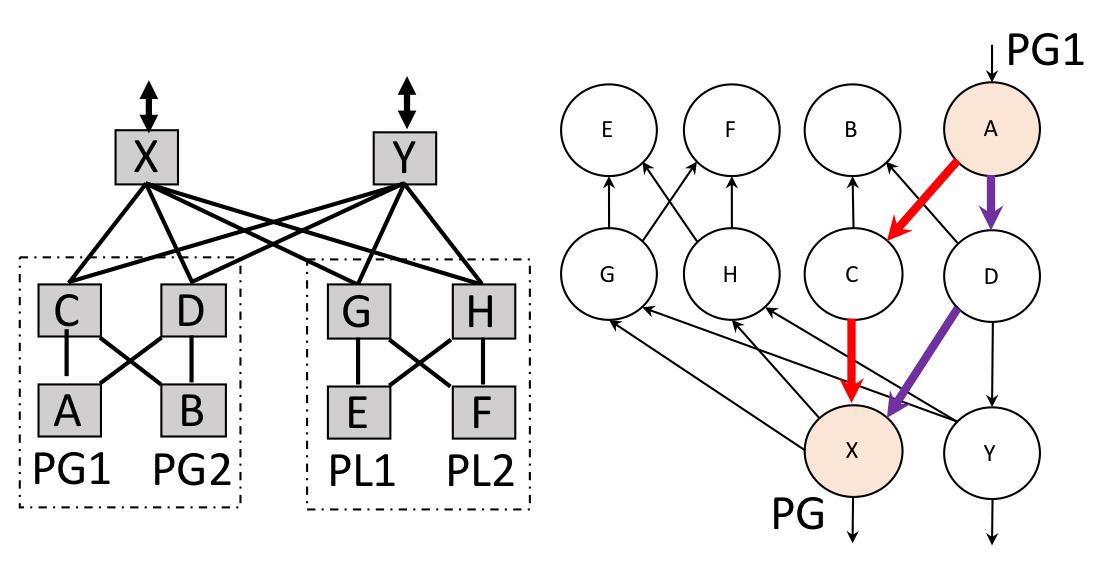
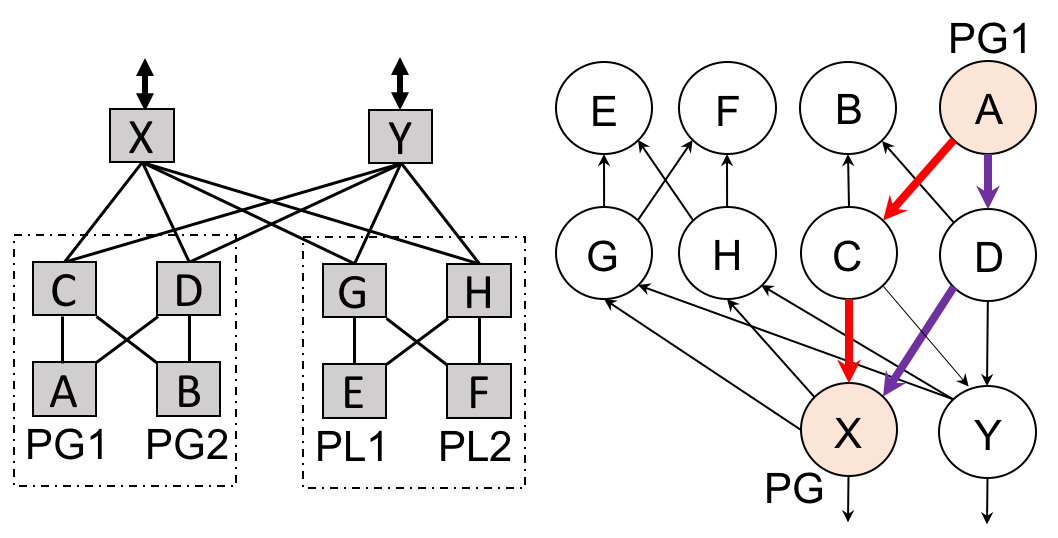
make figure text size consistent

diff --git a/paper/v2/paper-edited.tex b/paper/v2/paper-edited.tex
@@ -1245,7 +1245,8 @@ The PGIR is constructed by adding an edge from $m = (l_m, a_1, \dots, a_k)$ to $
 %
 Additionally, we add edges from the start node $s$ to any $n = (l, a_1, \dots, a_k)$ when $\sigma_i(q_{0_i}, l) = a_i$ for each $i$.
 %
-The preference function $P$ for node $n = (l, a_1, \dots, a_k)$ is defined as $P(n) = \set{i~\vert~a_i \in F_i} $. That is, it records which preferences are achieved from each policy automaton for every node in the product construction.
+The preference function $P$ is defined as $P(n) = \set{i~\vert~a_i \in F_i} $. That is, it records the path rank of each regular expression matched in the current node.
+% in preferences are achieved from each policy automaton for every node in the product construction.
 %
 Finally, there is an edge from each node in the PGIR such that $P(n) \neq \emptyset$ to the special end node $e$. We write $(m \leq_{rank} n)$ if either $P(m) = P(n) = \emptyset$ or $min ~ P(m) \leq min ~ P(n)$, which means that paths ending at PGIR node $m$ are better (lower rank) than paths ending at $n$.
 
@@ -1271,7 +1272,7 @@ After building the PGIR as described above,
 we minimize it in order to improve the precision of the subsequent analysis that checks if the policies captured by it are safe under failures.
 The minimization is based on the observation that, although every path in the PGIR is a valid path in the topology, we do not want to consider paths that form loops. In particular, BGP's loop prevention mechanism forces an AS to reject any route that is already in the AS path.
 %
-For example, in Figure~\ref{fig:example-compilation}, the path $W \cdot A \cdot C \cdot B \cdot W$ is a valid topological path, leading to a path that satisfies the preference 1 policy, but which contains a loop.
+For example, in Figure~\ref{fig:example-compilation}, the path $W \cdot A \cdot C \cdot B \cdot W$ is a valid topological path, leading to a path that satisfies the preference 2 policy, but which contains a loop.
 %
 %The precision of the failure-safety analysis often increases when nodes and edges that are not possible due to loops are eliminated.
 %For example, if we can safely remove a PGIR edge, then we do not have to consider what happens when the edge has failed.
@@ -1397,8 +1398,8 @@ For each router in the topology, local preferences are now obtained by sorting t
 
 \begin{figure}[t!]
   \centering
-  \includegraphics[width=.6\columnwidth]{figures/loops}
-  \caption{A Product Graph where preference inference is unsound before considering loops.}
+  \includegraphics[width=.66\columnwidth]{figures/loops}
+  \caption{A Product Graph where preference inference is unsound before considering loops. Path ranks shown by nodes.}
   \label{fig:avoiding-loops}
   %\vspace{-1em}
 \end{figure}
@@ -1650,7 +1651,7 @@ Figure~\ref{fig:compilation-times} shows the compilation times for datacenter an
 
 %From the break down of the time by compilation phase, we see that no single compilation phase dominates the running time of the compiler. However, construction and minimization of the product graph take the most time.
 
-Total compilation for the largest datacenter is less than 9 minutes total. Unlike the datacenter policy, the number of prefixes for the backbone policy remains relatively fixed as the topology size increases. Compilation for the largest backbone network, takes less than 3 minutes total. The inclusion of both more preferences and more neighboring ASes in the backbone policy increases the size of the resulting PGIR, which in turn leads to PGIR construction and minimization taking proportionally more time.
+Total compilation for the largest datacenter is less than 9 minutes total. Unlike the datacenter policy, the number of prefixes for the backbone policy remains relatively fixed as the topology size increases. Compilation for the largest backbone network, takes less than 3 minutes total. The inclusion of both more preferences and more neighboring ASes in the backbone policy increases the size of the resulting PGIR, which in turn cleads to PGIR construction and minimization taking proportionally more time.
 
 In both examples, we observe that Algorithm~\ref{alg:failures} for inferring \textup{Regret-Free} preferences is efficient, taking only a small fraction of the total running time. PGIR minimization is the most expensive compilation phase. If needed, minimization can be limited to a fixed number of iterations for large networks. Both the backbone and datacenter policies could be successfully compiled without performing minimization.
 
